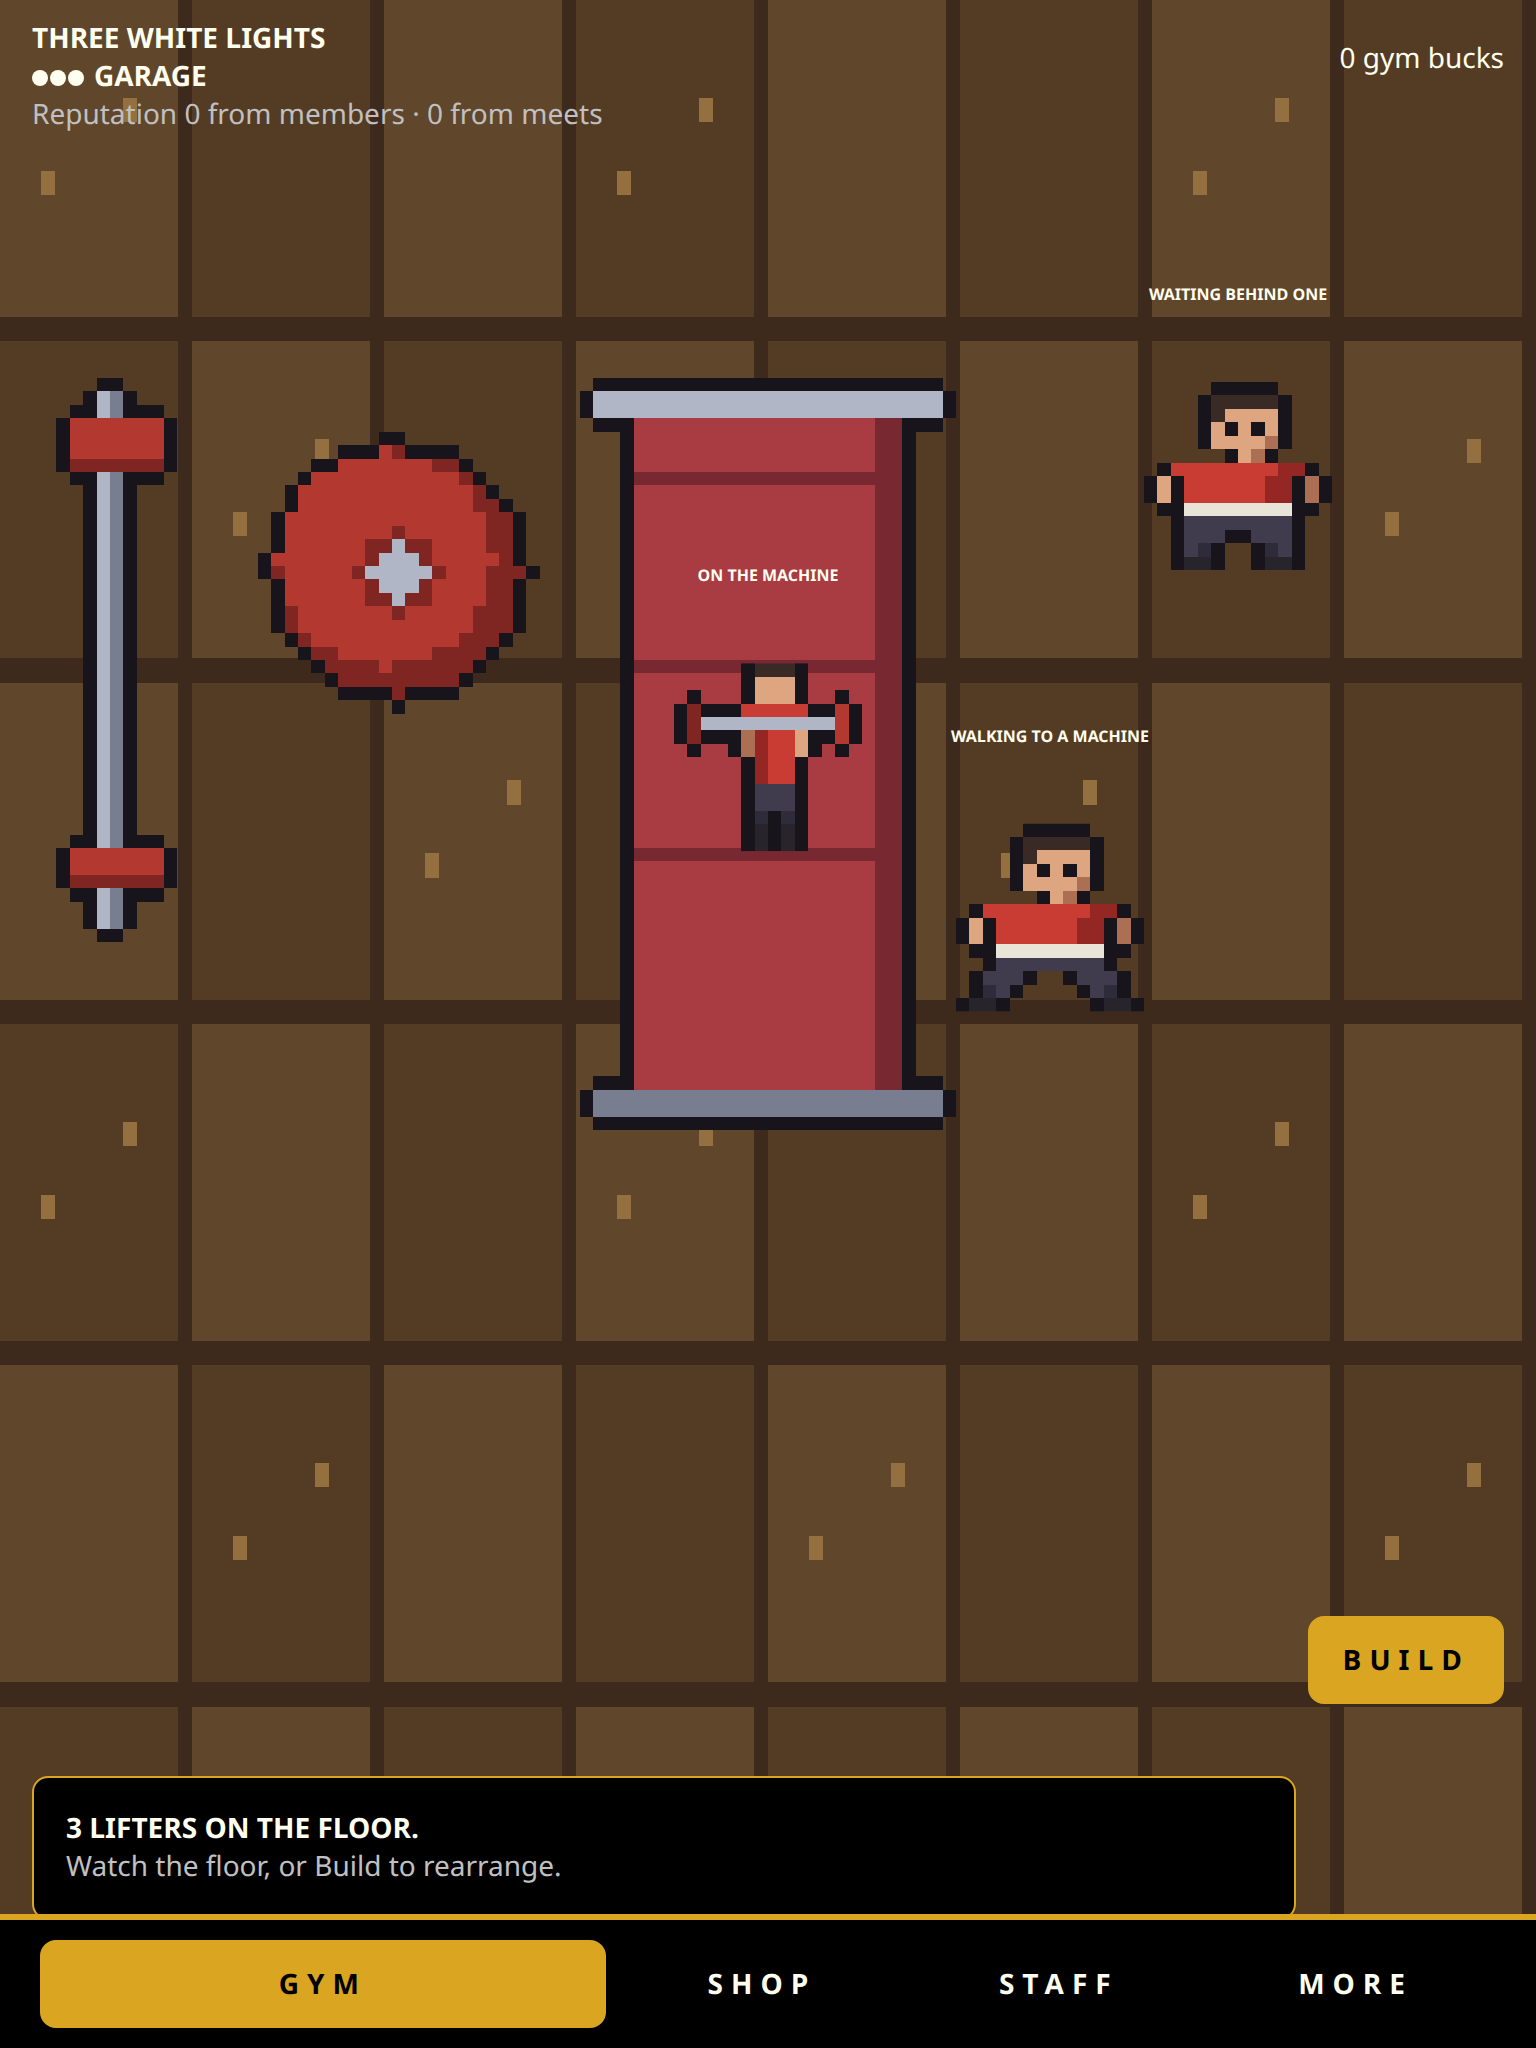
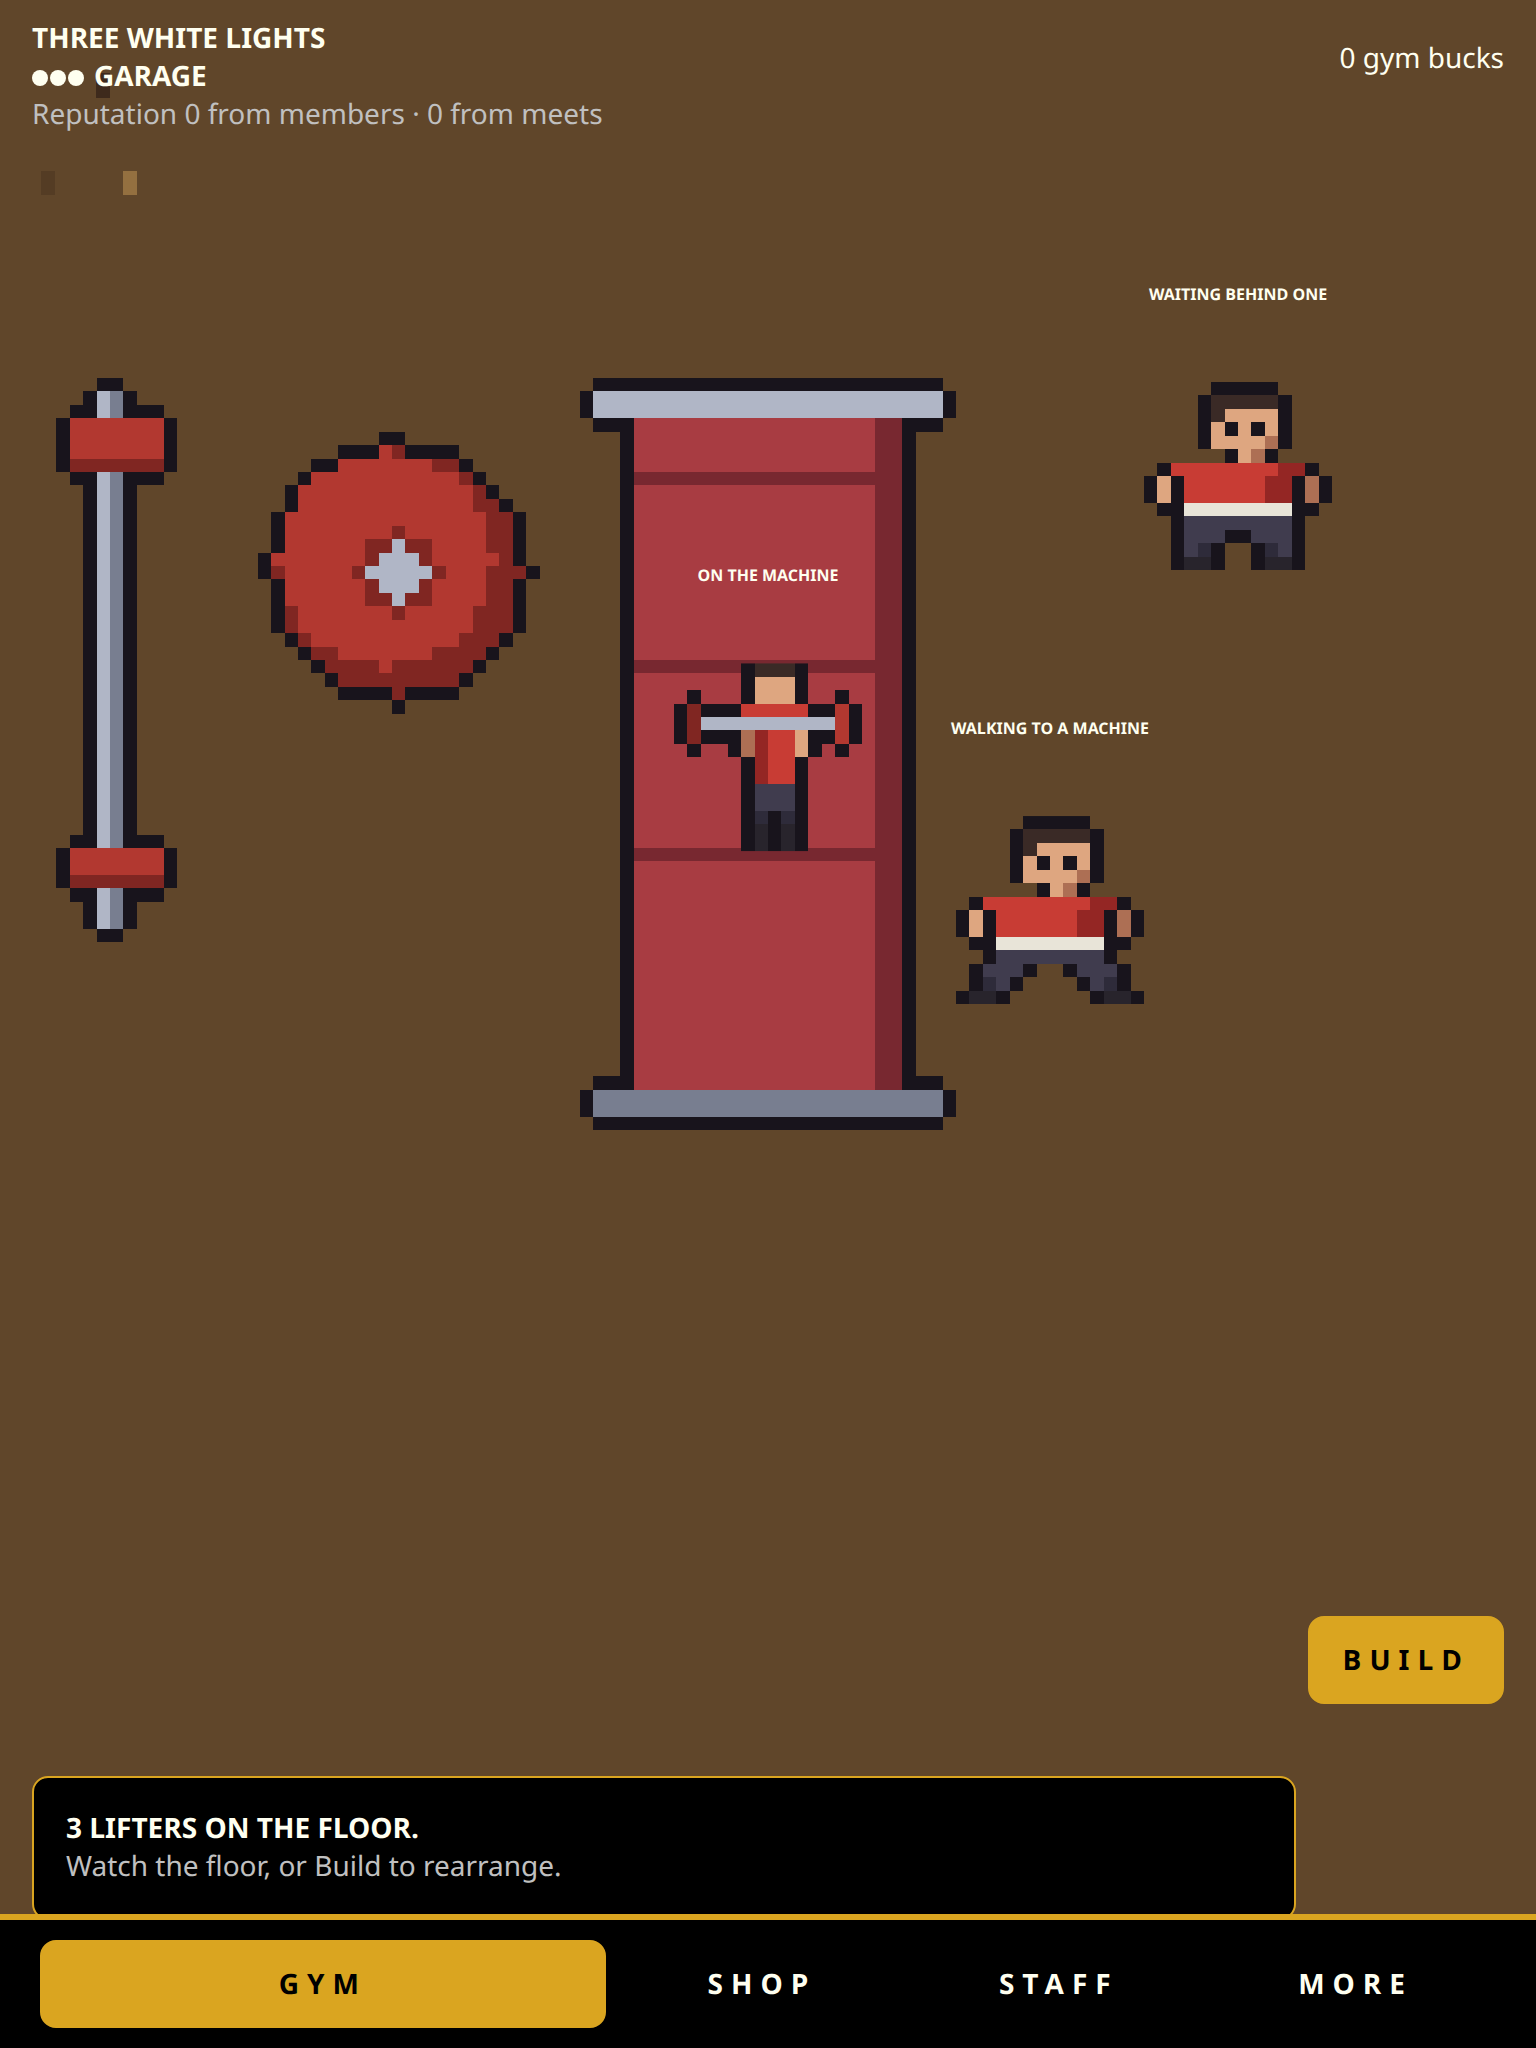
SF-TWL-GYM-EMPIRE-UX-02: H1 Play continuous wood, no baked grid
Playwright lines:0 only counted Build overlay nodes. floorTextureGrid still
painted a repeating board lattice that H2 full-bleed stretch turned into a
visible Play cell grid. Paint a continuous base fill with three grain specks;
placement grid stays the Build overlay. Recapture 390 Play / Build / Play-after-exit.

Changed region(s): [[0.0, 0.0, 1.0, 0.9375], [0.0, 0.3125, 0.0625, 0.3438]]

diff --git a/src/empire/empireForbiddenOutput.test.ts b/src/empire/empireForbiddenOutput.test.ts
@@ -3439,7 +3439,7 @@ const CONSTRUCTOR_CENSUS = Object.freeze({
   // 3662 -> 3704: Stage G.2C1 livingMemberStay.ts plus livingMembers wiring.
   // 3704 -> 3755: Stage G.2C2 livingMemberDeparture.ts plus livingMembers
   // departure/reconcile wiring. Read from this pin last.
-  CALLS_EXAMINED: 4225, // A×C playerFacingBrandLine
+  CALLS_EXAMINED: 4223, // H1 continuous wood fill (net -2 call sites)
   /**
    * Exported functions returning a read-only array of branded strings.
    *
@@ -17327,7 +17327,7 @@ const DECLARED_FRESH_RECEIVERS: readonly string[] = Object.freeze([
   'floorSim.ts:767 receiver=NewExpression',
   'floorSim.ts:914 receiver=ArrayLiteralExpression',
   'floorSim.ts:968 returned=unfollowable:plan',
-  'floorSprites.ts:1256 callee=fresh:ArrowFunction',
+  'floorSprites.ts:1250 callee=fresh:ArrowFunction',
   'floorSprites.ts:363 receiver=NewExpression',
   'floorSprites.ts:422 receiver=NewExpression',
   'floorSprites.ts:435 receiver=NewExpression',
@@ -17717,7 +17717,7 @@ const DECLARED_CALL_TARGETS: Readonly<Record<OwnerKind, number>> = Object.freeze
   // 1691 -> 1709: Stage D2.1B changeoverSeatKey / nextChangeovers / stationChangeoverTicks.
   // 1815 -> 1841: Stage G.2C1 livingMemberStay.ts plus livingMembers wiring.
   // 1841 -> 1866: Stage G.2C2 livingMemberDeparture.ts plus roster/sim wiring.
-  function: 2149, // A×C playerFacingBrandLine
+  function: 2148, // H1 continuous wood fill
   // GDD §5.13 Phase 3, the route-blocked round: 896 -> 901. Read from this
   // pin's own failure value.
   // 901 -> 923: Phase 3's RENDER half's new member expressions in
@@ -17777,7 +17777,7 @@ const DECLARED_CALL_TARGETS: Readonly<Record<OwnerKind, number>> = Object.freeze
   // 1517 -> 1529: Stage D2.1B changeovers Object.keys / freeze / occupancy members.
   // 1658 -> 1673: Stage G.2C1 livingMemberStay.ts plus livingMembers stayState.
   // 1673 -> 1699: Stage G.2C2 livingMemberDeparture.ts plus roster/sim members.
-  member: 1879, // SF-TWL-GYM-EMPIRE-UX-02 GymScreenProps
+  member: 1878, // H1 continuous wood fill (net -1 ops.push site)
   'member-callback': 12,
   // Unchanged at 21: the schedule's `.entries()` member call was the one
   // stage-4 site here, and it is an index loop now.
@@ -17860,7 +17860,7 @@ const DECLARED_WRITE_OWNERS: Readonly<Record<OwnerKind, number>> = Object.freeze
   // 438 -> 444: Stage D2.1B nextChangeovers / loading-path locals.
   // 461 -> 472: Stage G.2C2 departure/reconcile local writes.
   // Read from this pin last.
-  local: 502, // SF-TWL-GYM-EMPIRE-UX-01 GymScreen surface / developer locals
+  local: 501, // H1 continuous wood fill (net -1 ops.push write)
   function: 0,
   member: 0,
   'member-callback': 0,
@@ -18144,7 +18144,7 @@ const CHANNEL_CENSUS_TOTALS = Object.freeze({
   // stayState wiring. Read from this pin last.
   // 84_813 -> 86_105: Stage G.2C2 livingMemberDeparture.ts plus roster/sim
   // departure wiring. Read from this pin last.
-  NODES_EXAMINED: 96_980, // A×C full-bleed room + brand + floor language
+  NODES_EXAMINED: 96_849, // H1 continuous wood fill (drop nested board lattice)
   // 99 -> 108: members.ts's nine refuseWith calls.
   // 99 -> 104: floor.ts's own five `refuseWith` calls, independently.
   // Combined: 99 -> 113.

diff --git a/src/empire/floorSprites.ts b/src/empire/floorSprites.ts
@@ -1220,32 +1220,25 @@ const FIXED_PAINTERS: Readonly<Record<FixedFurnitureItem, EquipmentPainter>> = {
 };
 
 // ---------------------------------------------------------------------------
-// The floor texture — per rung, at native resolution, drawn scaled. Vertical
-// boards (column tone, not an 8×6 checker) with grain nicks — not cell-edge
-// strokes. Placement-grid lines are the Build overlay in FloorGrid, not paint
-// in this PNG. Play stretches this full-bleed; a baked seam would read as a
-// floor grid after H1.
+// The floor texture — per rung, at native resolution, drawn scaled. A
+// continuous wood fill with short grain marks — not an 8×6 cell checker and
+// not full-height stripes (those moiré into a fake grid when stretched
+// full-bleed). Placement-grid lines are the Build overlay in FloorGrid.
 // ---------------------------------------------------------------------------
 
 function floorTextureGrid(rung: LadderRung): FloorSpriteGrid {
   const size = EMPIRE_TUNING.FLOOR_GRID_SIZE[rung];
   const ops: PaintOp[] = [];
   const stride = EMPIRE_TUNING.FLOOR_SPRITE_FLECK_STRIDE;
-  for (let ty = 0; ty < size.height; ty += 1) {
-    for (let tx = 0; tx < size.width; tx += 1) {
-      const base = tx % 2 === 0 ? PX_FLOOR_BASE : PX_FLOOR_ALT;
-      ops.push(fill(tx * NATIVE, ty * NATIVE, NATIVE, NATIVE, base));
-      // Grain nicks — 1×1, interior, never a tile-edge stroke.
-      ops.push(fill(tx * NATIVE + QUARTER, ty * NATIVE + HALF, 1, 1, PX_FLOOR_SEAM));
-      ops.push(fill(tx * NATIVE + HALF, ty * NATIVE + QUARTER, 1, 1, PX_FLOOR_SEAM));
-      // A sparse fleck, deterministic from the tile coordinate alone.
-      if ((tx + ty * size.width) % stride === 0) {
-        ops.push(dot(tx * NATIVE + QUARTER, ty * NATIVE + HALF, PX_FLOOR_FLECK));
-        ops.push(dot(tx * NATIVE + HALF + 2, ty * NATIVE + QUARTER + 1, PX_FLOOR_FLECK));
-      }
-    }
-  }
-  return render(size.width * NATIVE, size.height * NATIVE, ops, false);
+  const width = size.width * NATIVE;
+  const height = size.height * NATIVE;
+  ops.push(fill(0, 0, width, height, PX_FLOOR_BASE));
+  // Three specks only — a lattice of 1×1 marks stretches into a dash-grid
+  // under H2 full-bleed (Y scale ~10×). One knot, not a cell overlay.
+  ops.push(dot(stride, HALF, PX_FLOOR_ALT));
+  ops.push(dot(HALF, QUARTER, PX_FLOOR_SEAM));
+  ops.push(dot(HALF + 2, HALF, PX_FLOOR_FLECK));
+  return render(width, height, ops, false);
 }
 
 // ---------------------------------------------------------------------------

diff --git a/src/empire/empireTuning.ts b/src/empire/empireTuning.ts
@@ -2308,12 +2308,14 @@ export const EMPIRE_TUNING = Object.freeze({
   }),
 
   /**
-   * The floor texture's own four tones, as RGB components: a base, a slightly
-   * different alternate so vertical boards read apart, a darker grain nick
-   * (not a tile-edge cell stroke — H1), and a sparse lighter fleck. A×C IRON
-   * & AMBER retunes these from cool slate toward garage wood — still index
-   * art, still darker than bodies and gear so sprites remain the read. Not a
-   * claim that isometric brick/steel illustration is done.
+   * The floor texture's own four tones, as RGB components: a continuous base
+   * fill, a slightly darker alternate grain nick, a still-darker seam nick
+   * (not a tile-edge cell stroke — H1), and a sparse lighter fleck. Play
+   * stretches this full-bleed; a repeating board or cell lattice would read
+   * as a floor grid. A×C IRON & AMBER retunes these from cool slate toward
+   * garage wood — still index art, still darker than bodies and gear so
+   * sprites remain the read. Not a claim that isometric brick/steel
+   * illustration is done.
    */
   FLOOR_SPRITE_FLOOR_PALETTE: Object.freeze({
     BASE: Object.freeze([96, 70, 42]),

diff --git a/src/empire/floorSprites.test.ts b/src/empire/floorSprites.test.ts
@@ -677,13 +677,21 @@ describe('the equipment and the floor', () => {
   });
 
   it('does not bake a placement-cell stroke into the floor texture', () => {
-    // H1: Play hides overlay lines; a full tile-edge seam in the PNG still
-    // reads as a floor grid once the texture is stretched full-bleed.
+    // H1: Play hides overlay lines; a repeating board/tile lattice in the PNG
+    // still reads as a floor grid once the texture is stretched full-bleed.
+    // Continuous wood is a base fill plus three grain specks — not an 8×6
+    // checker and not full-height stripes.
     const paletteSize = FLOOR_SPRITE_PALETTES.base.length;
+    const baseIndex = paletteSize - 3;
     const seamIndex = paletteSize - 1;
     for (const rung of T.LADDER_RUNGS) {
       const grid = FLOOR_SPRITE_GRIDS.floor[rung];
       const size = T.FLOOR_GRID_SIZE[rung];
+      let nonBase = 0;
+      for (const index of grid.data) {
+        if (index !== baseIndex) nonBase += 1;
+      }
+      expect(nonBase, `${rung} non-base floor pixels`).toBe(3);
       for (let ty = 1; ty < size.height; ty += 1) {
         const y = ty * NATIVE - 1;
         let seamOnRow = 0;
